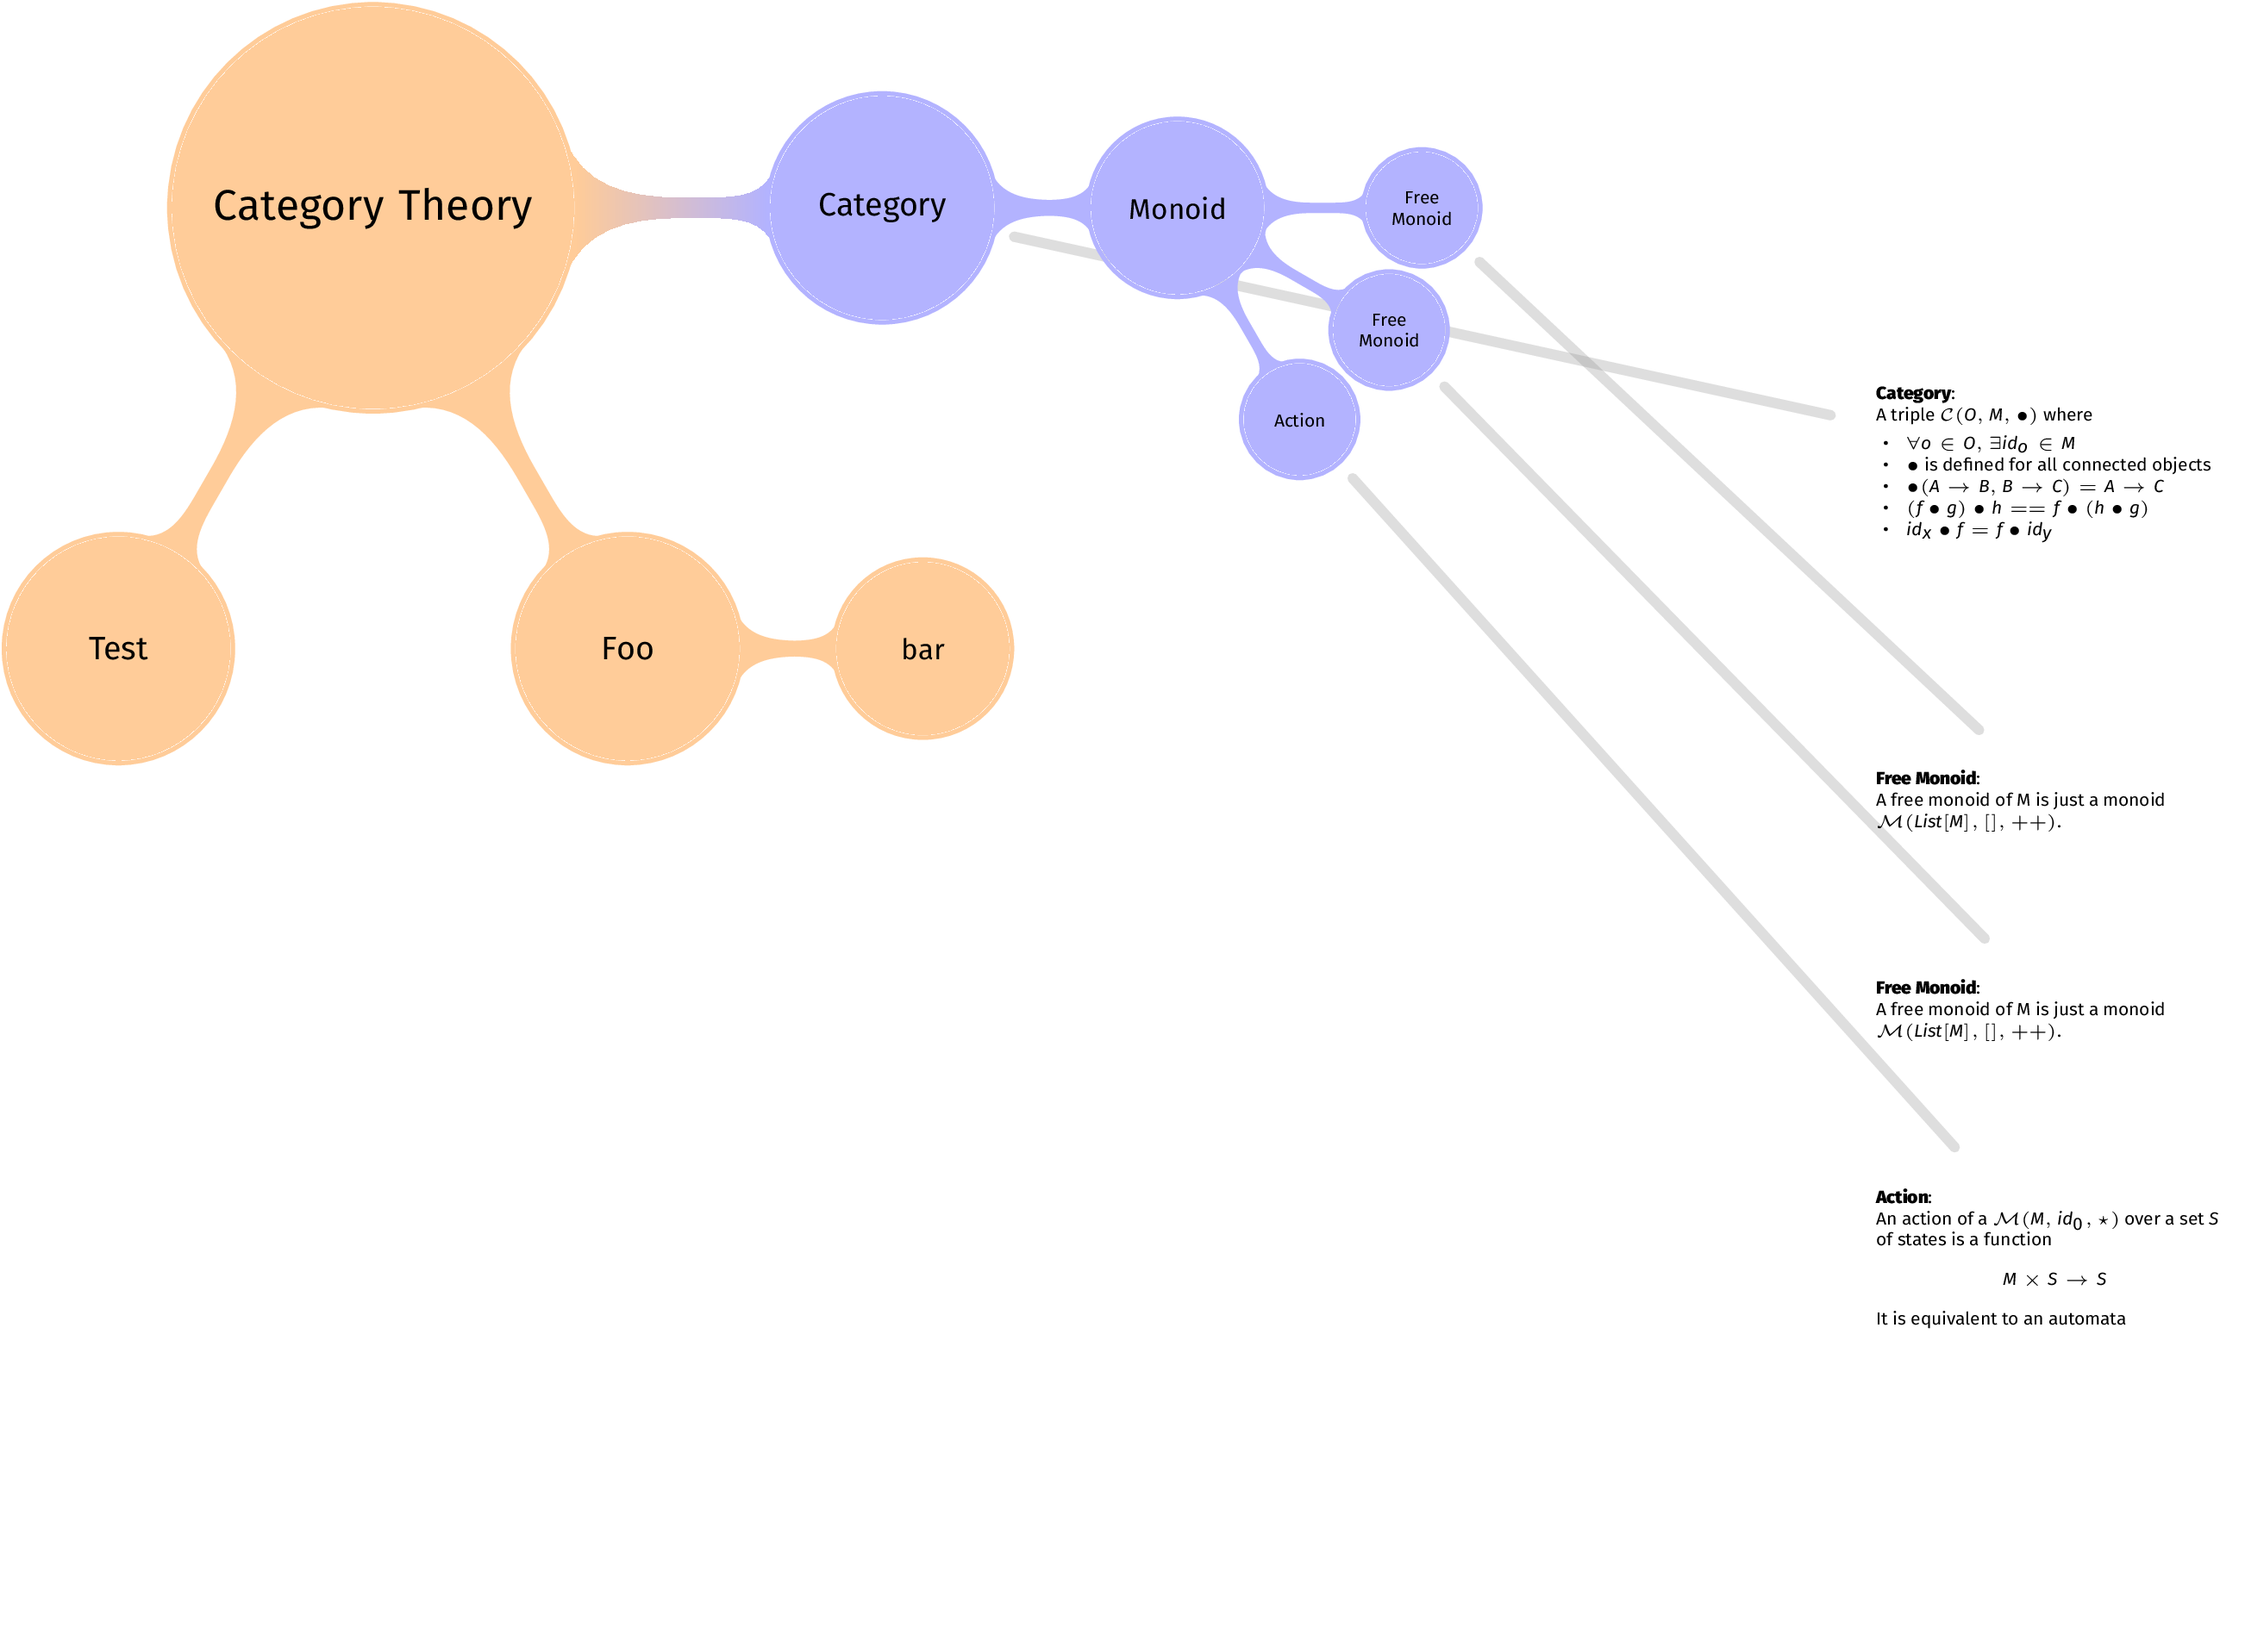
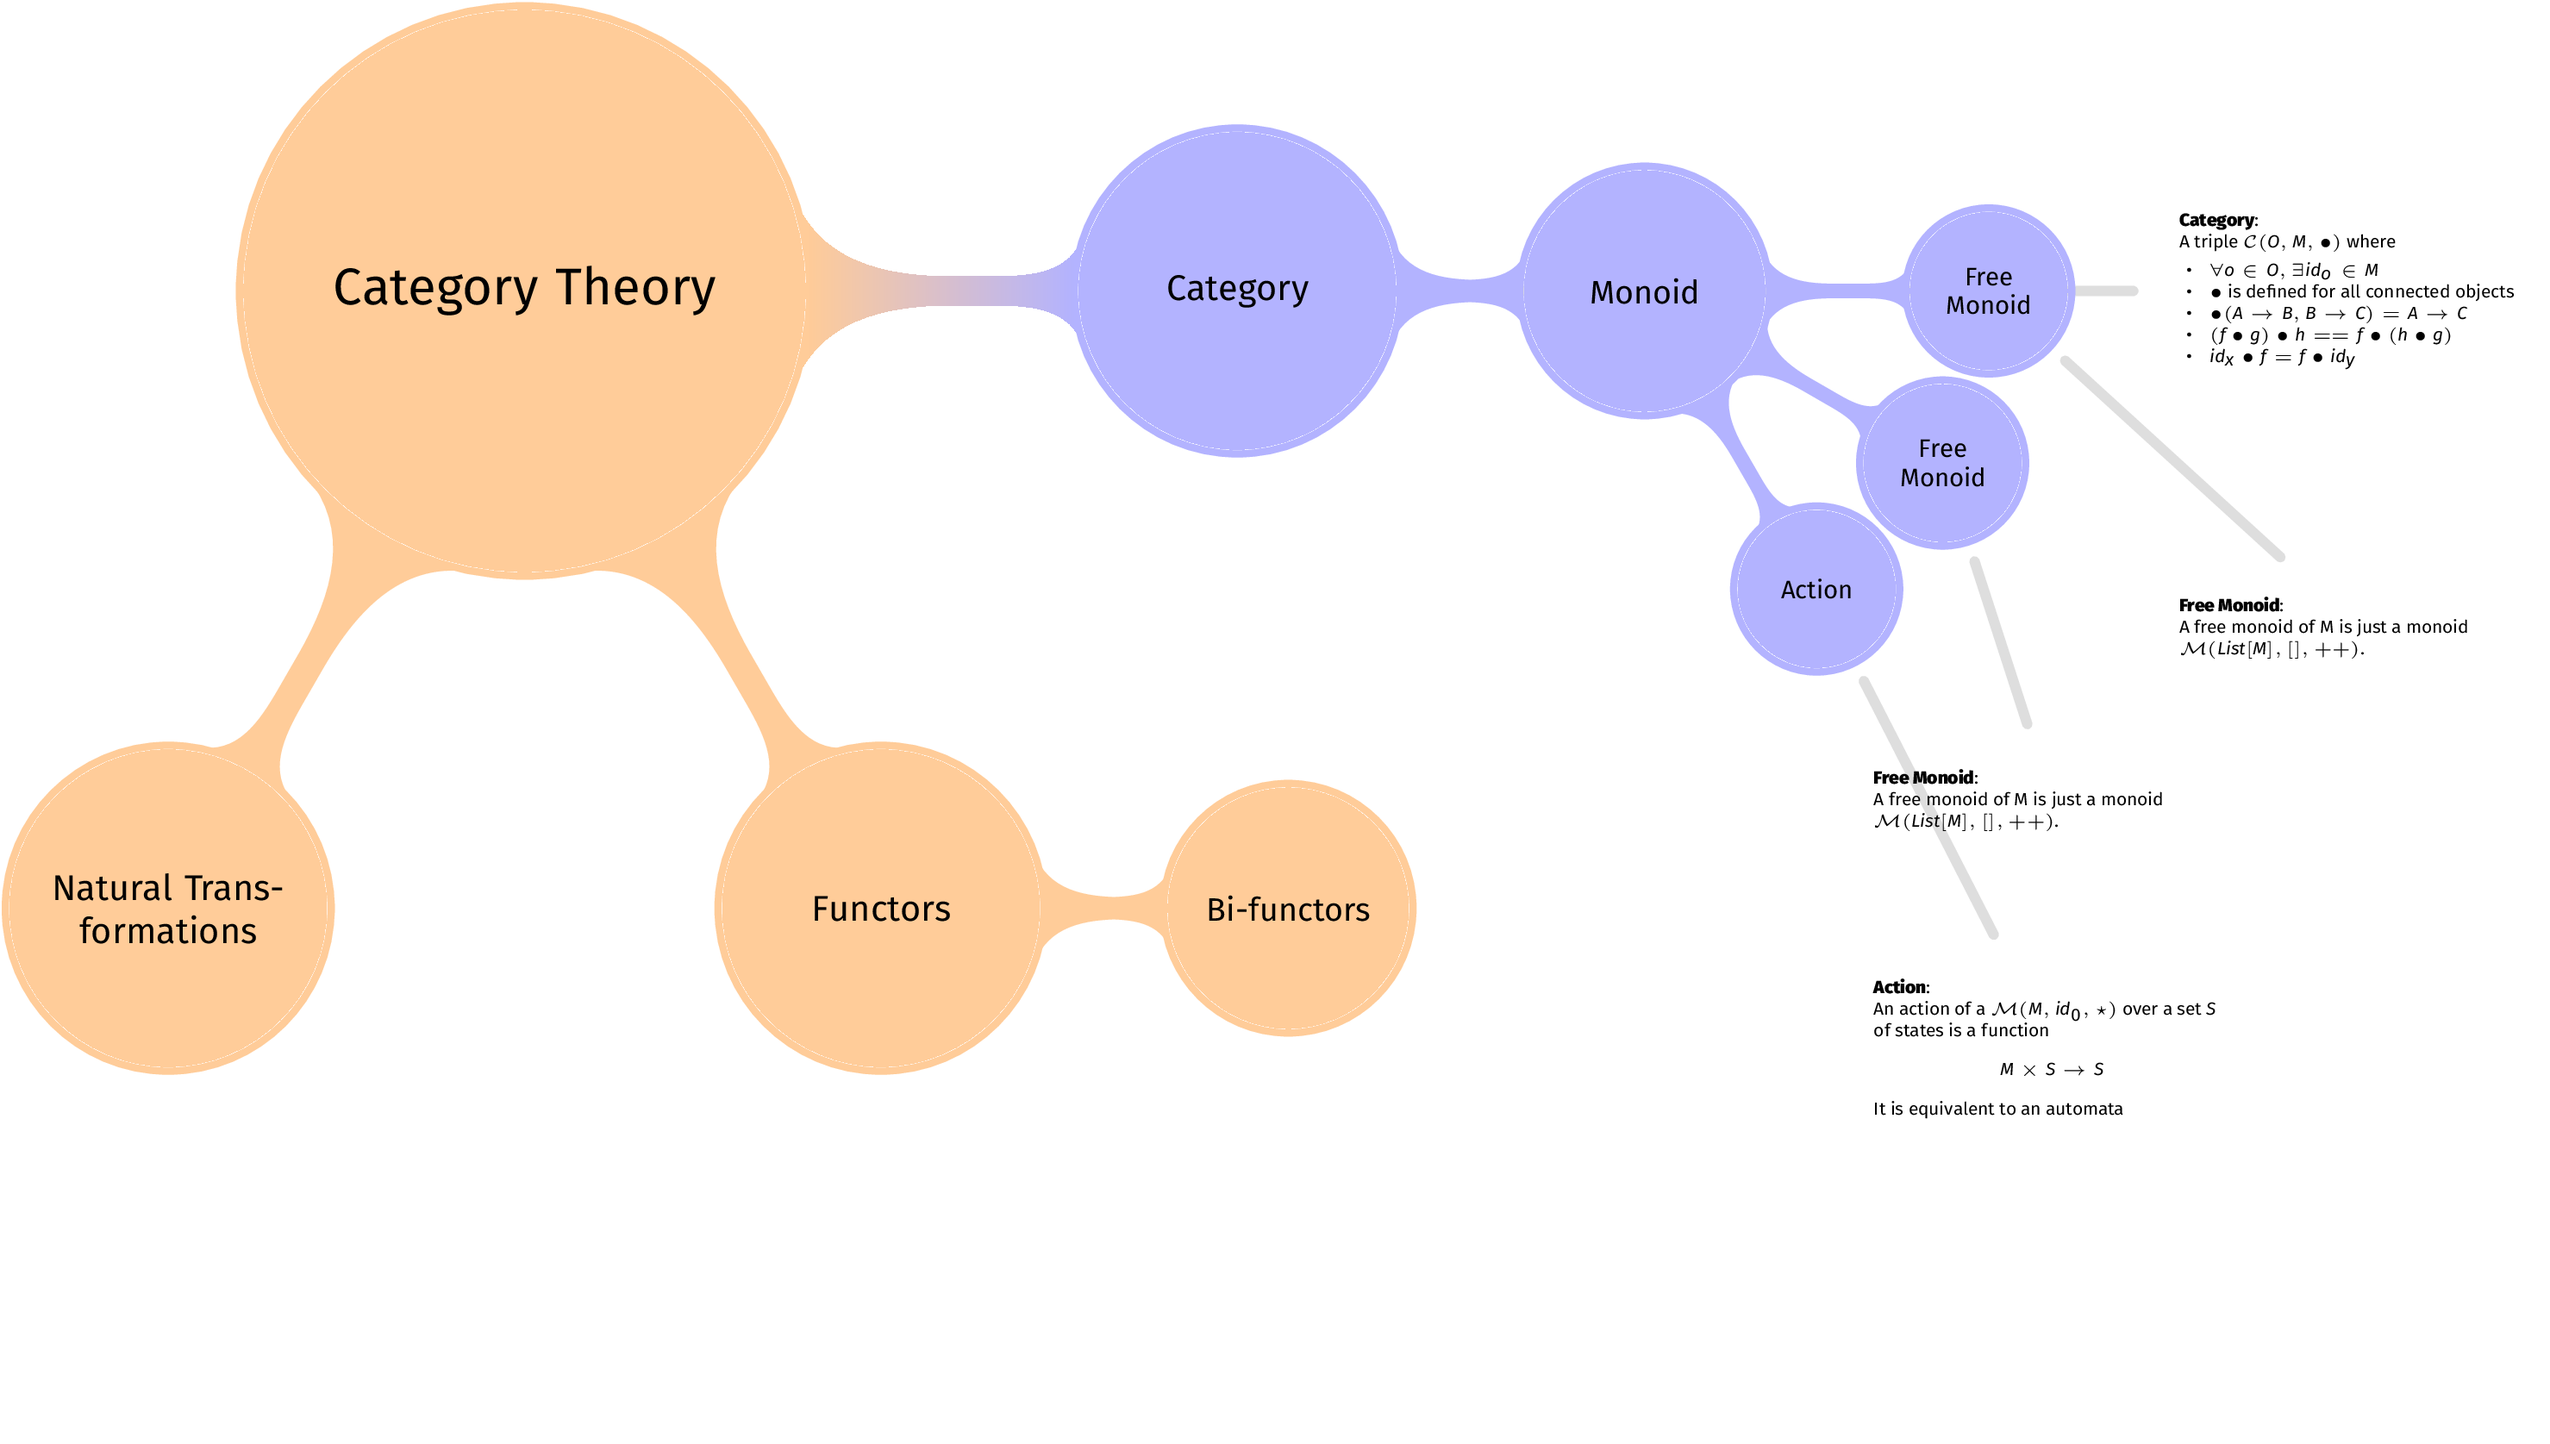
fix: specify annotation absolute placement

diff --git a/README.md b/README.md
@@ -19,15 +19,20 @@ Generate this:
 from this:
 
 ``` org
+
 #+TITLE: Category Theory
 #+AUTHOR: Vittorio Zaccaria
-#+COLUMNS: %20ITEM %10color 
-#+FONT: Fira Sans
+#+COLUMNS: %20ITEM %10color %10placement 
+#+FONT: Fira Sans 
 #+MONOFONT: Inconsolata
+# #+HELPLINES: (0,0) grid (20, -10)
+
+
 
 * Category
 :PROPERTIES:
 :color: blue!30
+:placement: 18,0
 :END:       
 
 A triple $\mathcal{C}(O, M, \bullet)$ where 
@@ -42,10 +47,16 @@ A triple $\mathcal{C}(O, M, \bullet)$ where
 :PROPERTIES:
 :END:
 
-A monoid $\mathcal{M}(M, id_0, \star)$ is just a category $\mathcal{C}(O, M, \star)$ where O = { o_1 }
 
 *** Free Monoid 
 :PROPERTIES:
+:END:
+
+A free monoid of M is just a monoid $\mathcal{M}(List[M], [], ++)$. 
+
+*** Free Monoid 
+:PROPERTIES:
+:placement: 15, -5
 :END:
 
 A free monoid of M is just a monoid $\mathcal{M}(List[M], [], ++)$. 
@@ -58,10 +69,10 @@ An action of a $\mathcal{M}(M, id_0, \star)$ over a set $S$ of states is a
 function \[ M \times S \rightarrow S \]
 
 It is equivalent to an automata
+* Functors
+** Bi-functors
+* Natural Transformations
 
-* Foo
-** bar
-* Test
 ```
 
 Installation
@@ -105,6 +116,8 @@ Supported syntax
 
 -   `:color:` is any color in a syntax understandable by
     [Tikz](http://www.texample.net/tikz/). 
+    
+- `:placement:` absolute coordinates of the annotation. If not present, *i*) it is assumed to be placed below the previous annotation or *ii)* if it is the first annotation then it is assumed to be `current page.south east`.
 
 
 *Warning*: it turns out that the official org-mode grammar does not accept spaces between properties, or between properties and headings. These are thus invalid headings:
